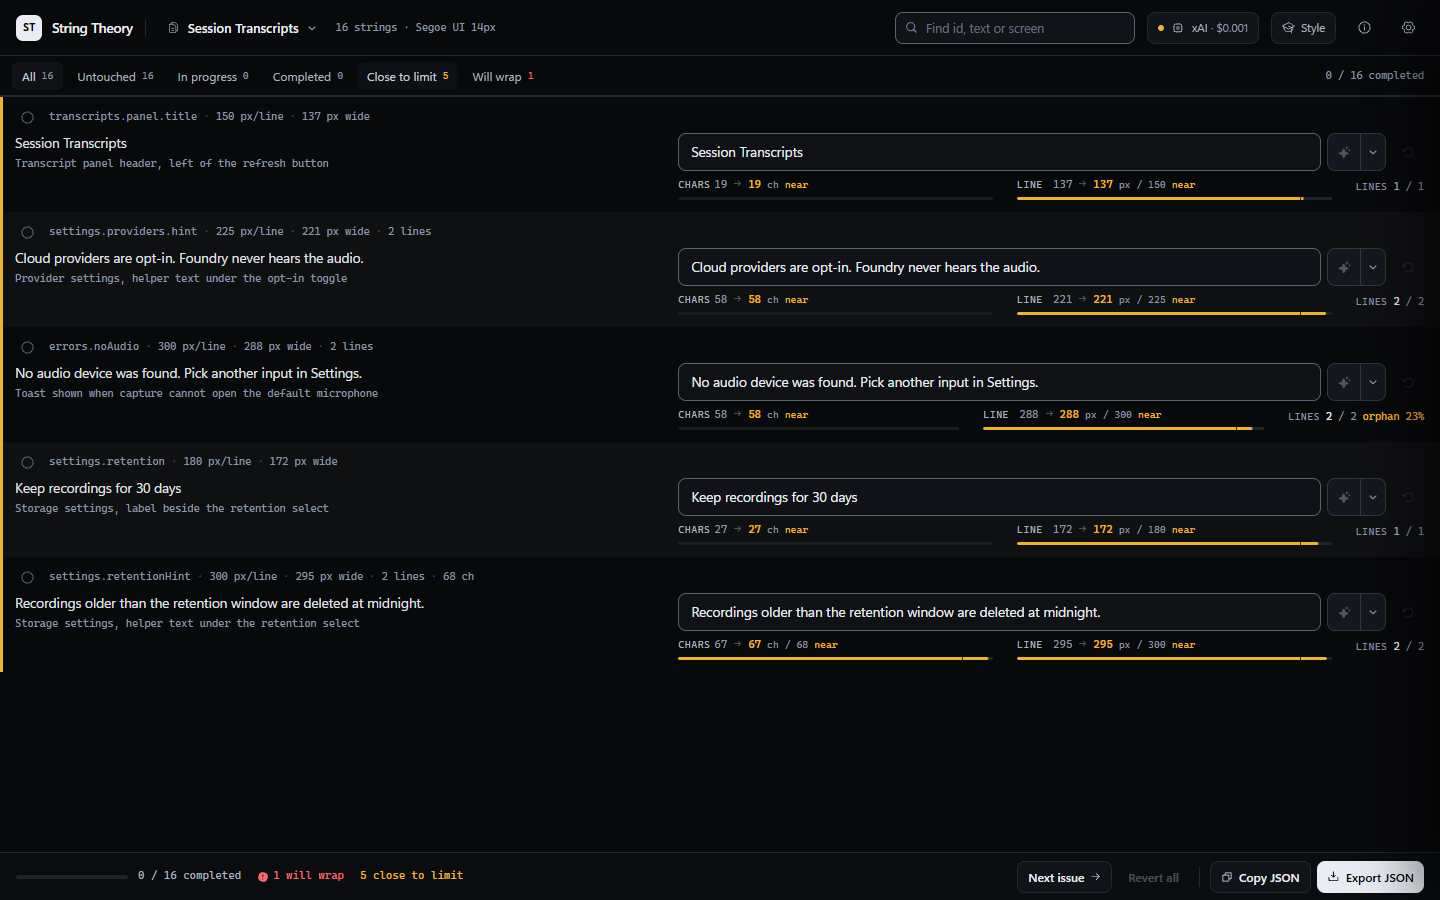
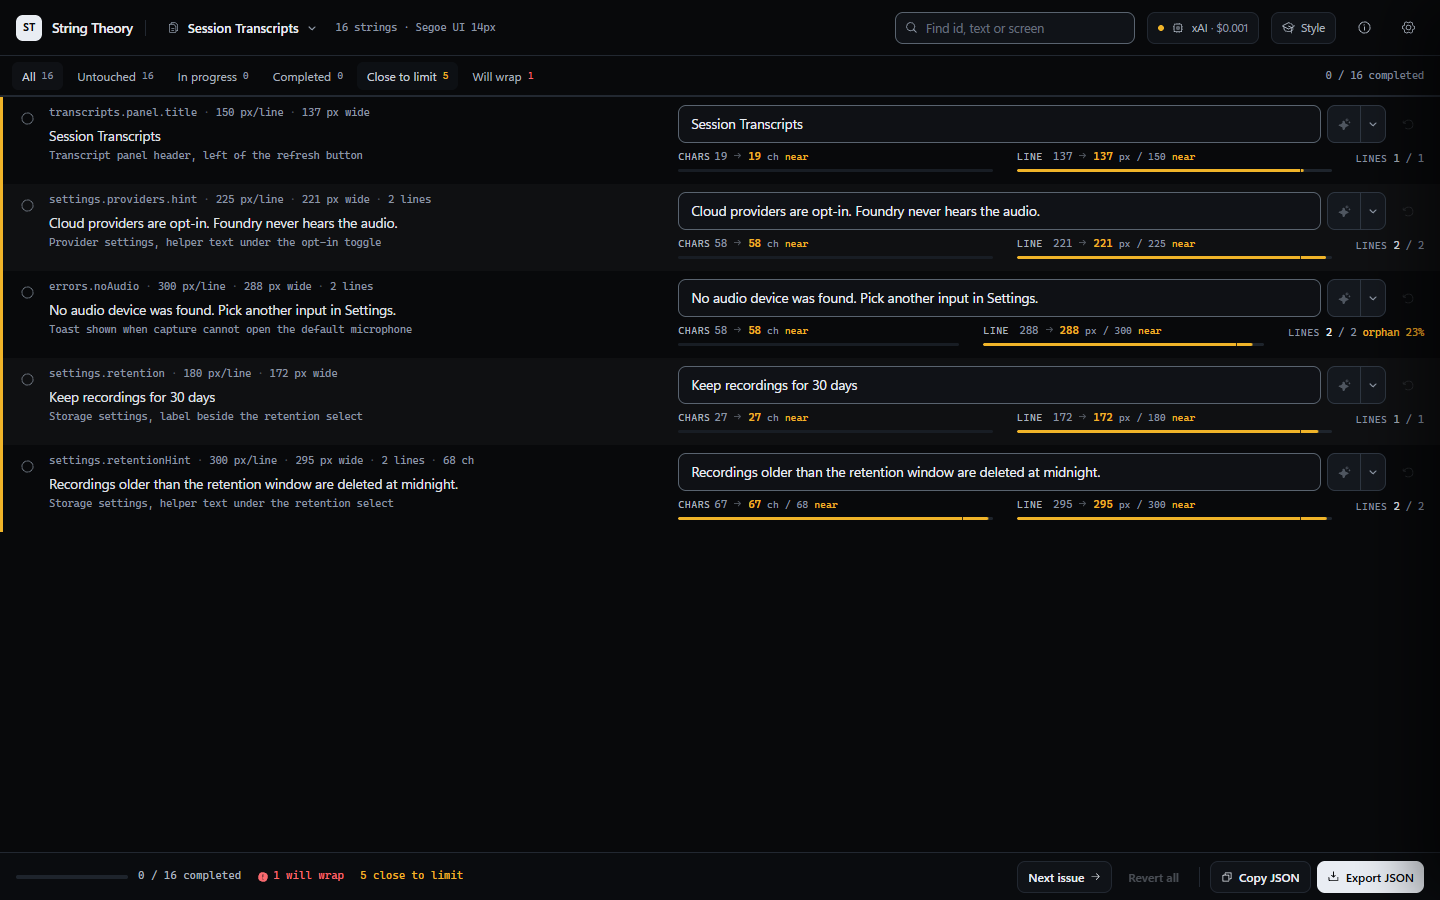
refactor: give the row's first line to the left column only
The identity line spanned the whole row, which pushed the input one line down
and left dead space above it. The glyph, the id with its budget and the source
now share the left column, and the input starts at the row's first pixel: 8px
from the top in both columns, measured.

The AI badge rides on the identity line, where provenance belongs. Polishing and
errors moved under the input, which is the thing they describe. Meters stay
under the input and keep their place in the tab order.

Screenshots recaptured. A row is now one block, and AGENTS.md says so, because a
full-width header is exactly the kind of thing that creeps back.

diff --git a/src/components/StringRow.tsx b/src/components/StringRow.tsx
@@ -227,67 +227,56 @@ function RowShell({
       aria-describedby={`row-verdict-${row.key}`}
       className={`st-row ${BORDER[fit]}`}
     >
-      <div className="flex items-center gap-2.5 px-3 pt-2">
-        <StateGlyph state={row.state} onCycle={() => onCycleState(row.key)} onReset={() => onResetState(row.key)} />
+      <div className="grid grid-cols-1 gap-x-7 gap-y-2 pr-4 pb-3 pl-3 pt-2 lg:grid-cols-[minmax(0,0.92fr)_minmax(0,1.08fr)]">
+        {/* Left: the glyph, the identity line and the source. Nothing above it. */}
+        <div className="flex min-w-0 items-start gap-2.5">
+          <span className="mt-[1px] shrink-0">
+            <StateGlyph state={row.state} onCycle={() => onCycleState(row.key)} onReset={() => onResetState(row.key)} />
+          </span>
 
-        <HoverInfo content={info} className="min-w-0 flex-1">
-          <span className="st-num flex items-baseline gap-1.5 truncate font-mono text-[11px]">
-            <span id={`row-label-${row.key}`} className="truncate text-fg-faint hover:text-fg-dim">
-              {row.id}
-            </span>
-            <span className="shrink-0 text-fg-faint/50">·</span>
-            <span className="shrink-0 text-[10.5px] text-fg-faint">
-              {row.maxPxPerLine ? `${px(row.maxPxPerLine)} px/line` : 'no px limit'}
-            </span>
-            <span className="shrink-0 text-fg-faint/50">·</span>
-            <span className="shrink-0 text-[10.5px] text-fg-faint">{px(beforePx)} px wide</span>
-            {row.maxLines > 1 ? (
-              <>
+          <div className="min-w-0 flex-1">
+            <HoverInfo content={info} className="block">
+              <span className="st-num flex items-baseline gap-1.5 truncate font-mono text-[11px]">
+                <span id={`row-label-${row.key}`} className="truncate text-fg-faint hover:text-fg-dim">
+                  {row.id}
+                </span>
                 <span className="shrink-0 text-fg-faint/50">·</span>
-                <span className="shrink-0 text-[10.5px] text-fg-faint">{row.maxLines} lines</span>
-              </>
-            ) : null}
-            {row.maxChars ? (
-              <>
+                <span className="shrink-0 text-[10.5px] text-fg-faint">
+                  {row.maxPxPerLine ? `${px(row.maxPxPerLine)} px/line` : 'no px limit'}
+                </span>
                 <span className="shrink-0 text-fg-faint/50">·</span>
-                <span className="shrink-0 text-[10.5px] text-fg-faint">{row.maxChars} ch</span>
-              </>
-            ) : null}
-          </span>
-        </HoverInfo>
+                <span className="shrink-0 text-[10.5px] text-fg-faint">{px(beforePx)} px wide</span>
+                {row.maxLines > 1 ? (
+                  <>
+                    <span className="shrink-0 text-fg-faint/50">·</span>
+                    <span className="shrink-0 text-[10.5px] text-fg-faint">{row.maxLines} lines</span>
+                  </>
+                ) : null}
+                {row.maxChars ? (
+                  <>
+                    <span className="shrink-0 text-fg-faint/50">·</span>
+                    <span className="shrink-0 text-[10.5px] text-fg-faint">{row.maxChars} ch</span>
+                  </>
+                ) : null}
+                {row.ai ? (
+                  <span className="ml-1 inline-flex shrink-0 items-center gap-1 rounded-full border border-line bg-ink-800 px-1.5 py-[1px] text-[9.5px] tracking-[0.06em] text-fg-dim uppercase">
+                    <Sparkle size={9} weight="fill" />
+                    AI
+                  </span>
+                ) : null}
+              </span>
+            </HoverInfo>
 
-        {row.ai ? (
-          <span className="inline-flex items-center gap-1 rounded-full border border-line bg-ink-800 px-1.5 py-[1px] text-[9.5px] tracking-[0.06em] text-fg-dim uppercase">
-            <Sparkle size={9} weight="fill" />
-            AI
-          </span>
-        ) : null}
-
-        {row.busy ? (
-          <span className="flex items-center gap-1 text-[10.5px] text-fg-faint">
-            <span className="h-2.5 w-2.5 rounded-full border border-fg-faint/40 border-t-fg-dim st-shimmer" />
-            polishing
-          </span>
-        ) : null}
-
-        {row.error ? (
-          <span className="flex min-w-0 items-center gap-1 truncate text-[10.5px] text-over">
-            <WarningCircle size={11} weight="bold" className="shrink-0" />
-            <span className="truncate">{row.error}</span>
-          </span>
-        ) : null}
-      </div>
-
-      <div className="grid grid-cols-1 gap-4 pr-4 pb-3 pl-3 pt-1 lg:grid-cols-[minmax(0,0.92fr)_minmax(0,1.08fr)] lg:gap-7">
-        <div className="min-w-0">
-          <HoverInfo content={info} className="block" width={400}>
-            <span className="block text-[13.5px] leading-snug text-fg/95">{row.source}</span>
-            <span className="mt-1 block truncate font-mono text-[10.5px] text-fg-faint">
-              {row.where || 'location not exported'}
-            </span>
-          </HoverInfo>
+            <HoverInfo content={info} className="mt-1 block" width={400}>
+              <span className="block text-[13.5px] leading-snug text-fg/95">{row.source}</span>
+              <span className="mt-1 block truncate font-mono text-[10.5px] text-fg-faint">
+                {row.where || 'location not exported'}
+              </span>
+            </HoverInfo>
+          </div>
         </div>
 
+        {/* Right: the input sits at the top of the row, meters hang under it. */}
         <div className="min-w-0">
           <div className="flex items-stretch gap-1.5">
             <textarea
@@ -330,6 +319,24 @@ function RowShell({
               <ArrowCounterClockwise size={13} />
             </button>
           </div>
+
+          {row.busy || row.error ? (
+            <div className="mt-1.5 flex min-w-0 items-center gap-3 text-[10.5px]">
+              {row.busy ? (
+                <span className="flex shrink-0 items-center gap-1 text-fg-faint">
+                  <span className="h-2.5 w-2.5 rounded-full border border-fg-faint/40 border-t-fg-dim st-shimmer" />
+                  polishing
+                </span>
+              ) : null}
+              {row.error ? (
+                <span className="flex min-w-0 items-center gap-1 truncate text-over">
+                  <WarningCircle size={11} weight="bold" className="shrink-0" />
+                  <span className="truncate">{row.error}</span>
+                </span>
+              ) : null}
+            </div>
+          ) : null}
+
           <div className="mt-2 flex flex-wrap items-start gap-x-6 gap-y-2">
             <Meter
               label="chars"

diff --git a/AGENTS.md b/AGENTS.md
@@ -112,6 +112,7 @@ Do not copy the whole spec into all four. Each home carries what its reader need
 - Rows alternate with `.st-row:nth-child(even)`. Do not add per-row backgrounds from JSX; the stripe is one rule so the list stays even when a filter hides rows.
 - Motion comes from `src/styles.css`: one curve (`--ease-out`) and three durations. Animate transform, opacity and colour only, and cover every new animation with the reduced-motion block.
 - Focus is one shape everywhere: the global `:focus-visible` ring, plus `:focus-within` on a row so the row being edited reads as active.
+- A row is one two-column block from its first pixel. The identity line belongs to the left column so the input starts flush at the row top; never reintroduce a full-width header strip above both columns.
 - A verdict is never colour alone. Meters are `role="progressbar"` with `aria-valuetext`, and each row carries an `sr-only` sentence with its budget, line count and orphan percentage.
 - Dialogs go through `src/lib/useDialog.ts` for Escape, focus trapping and focus restore. A drawer that stays mounted needs `inert` while closed.
 - `npm run check:contrast` computes every text and border pair. All pairs pass before a UI change ships; a new token joins that table in the same commit.
